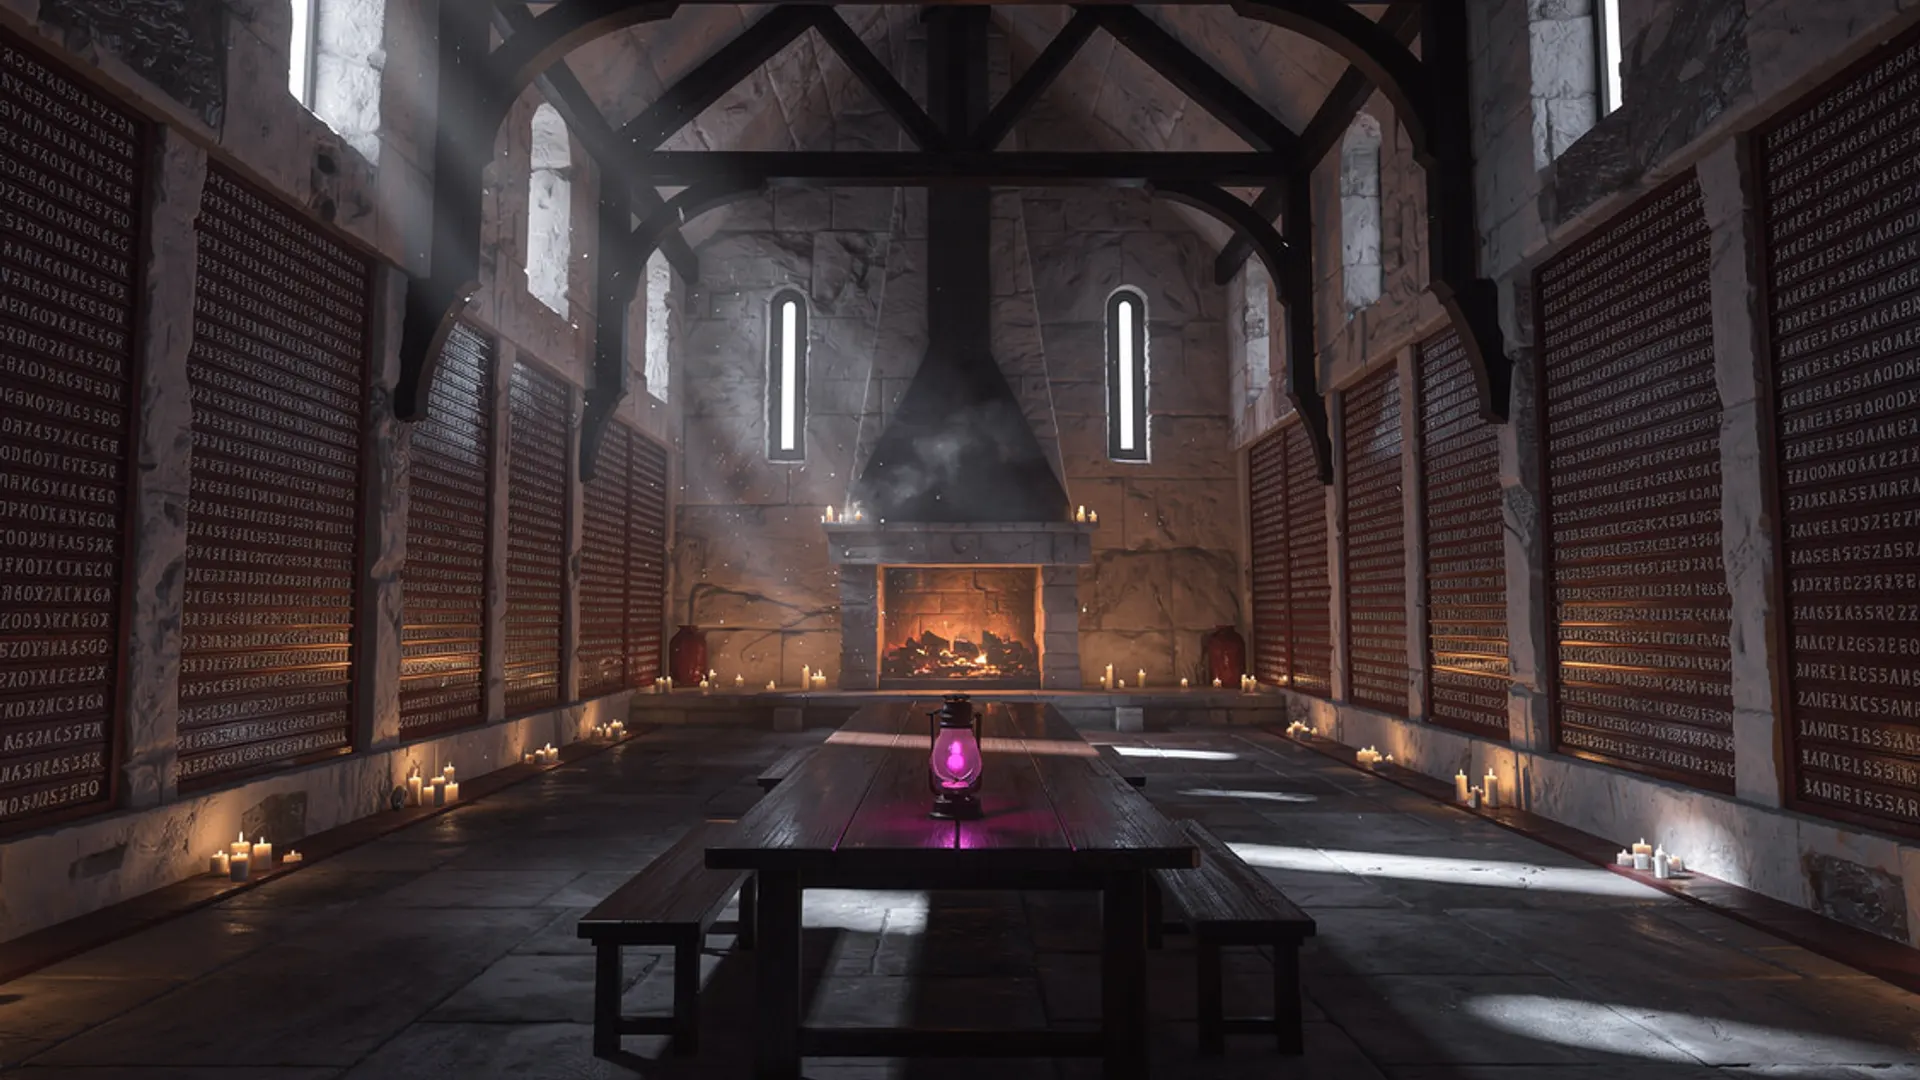
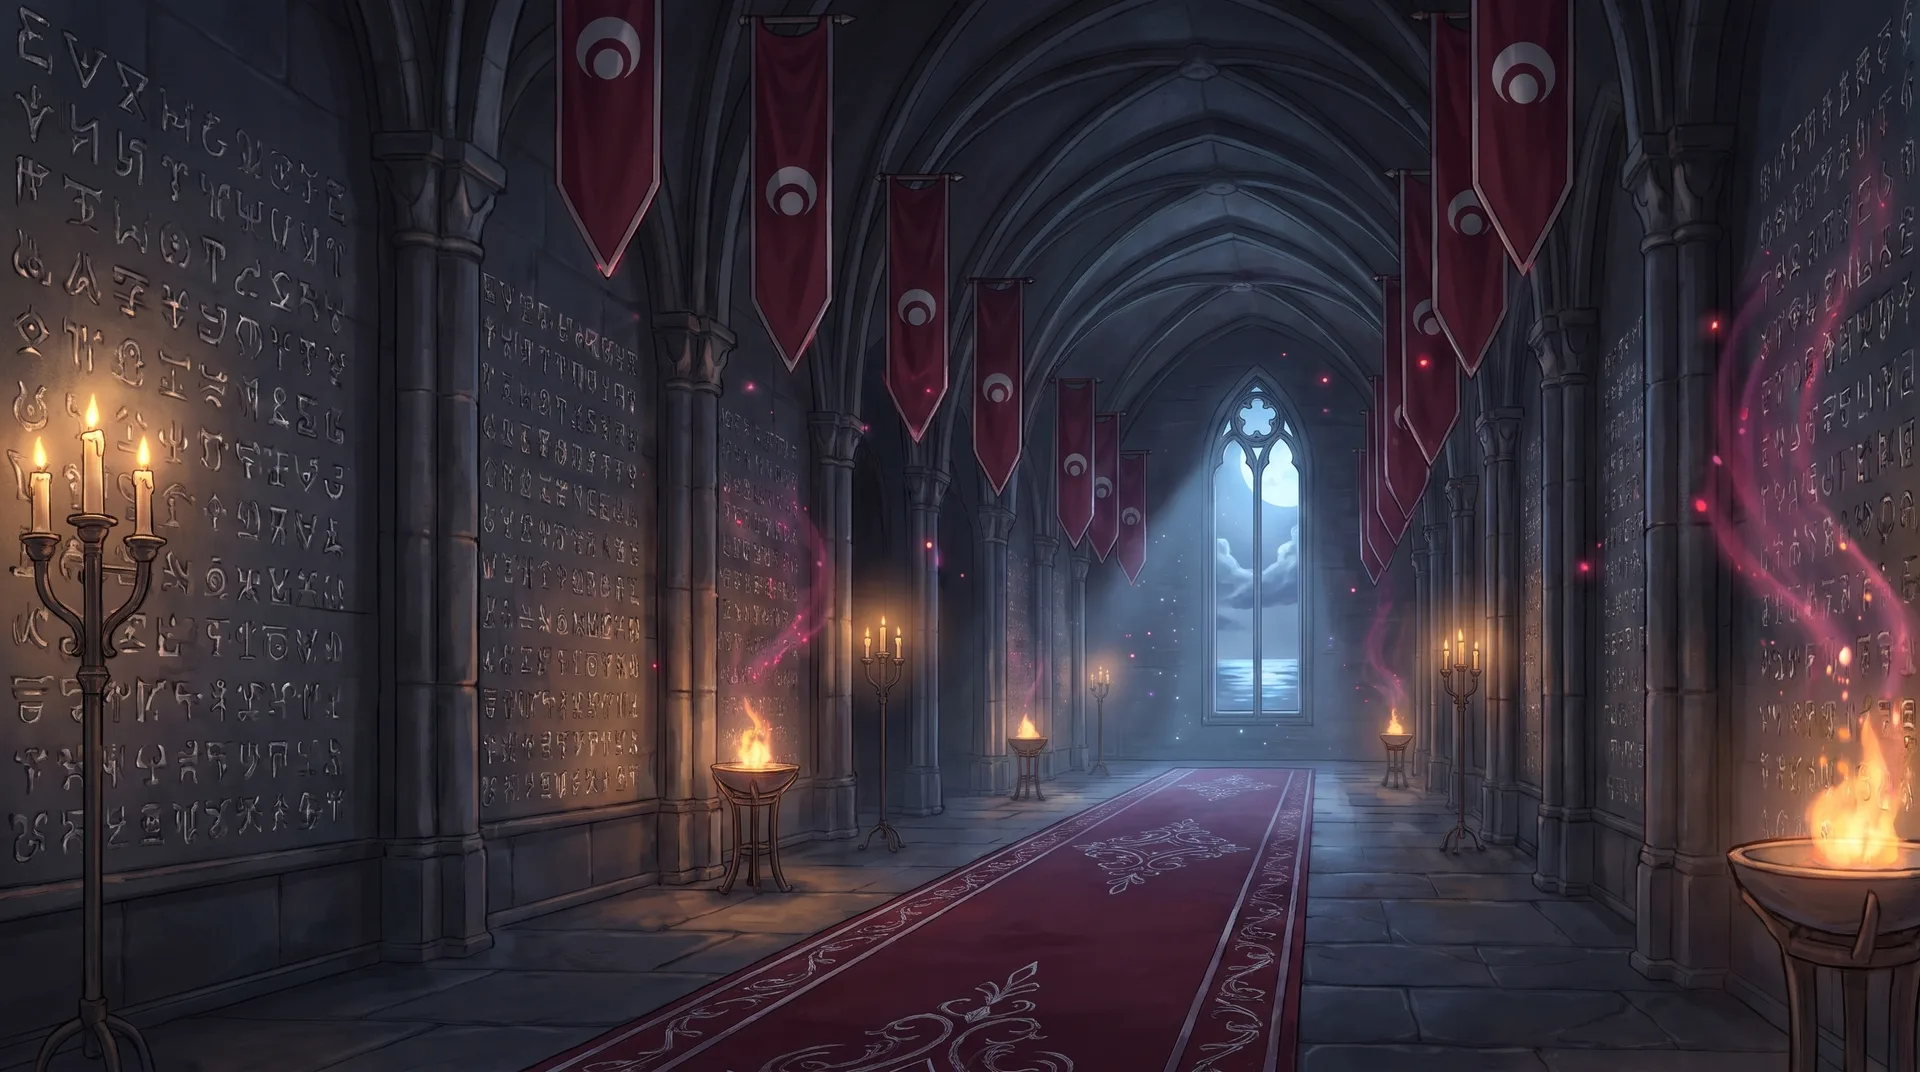
Add the e-commerce clickstream pipeline; Moonwake hall and new Still
Projects: a new Data Engineering case study, first in the list, for
the idempotent daily ELT pipeline on S3, Snowflake, dbt and Airflow 3
(110M events, every row reconciled). The cover is a screenshot of the
live dashboard, and the figures are the architecture diagram, the dbt
lineage, the 61 green Airflow runs and the reconciliation panel from
the repository.

Moonwake: a new Hall of Names painting, and a new Still roster of
twelve fighters from twelve lands of Runeterra under one shared
cloak, with the two sheet prompts rewritten to match.

diff --git a/src/data/codex.ts b/src/data/codex.ts
@@ -192,8 +192,8 @@ export const conceptGalleries: { id: string; label: string; tiles: ConceptTile[]
     label: "The Moonwatch",
     tiles: [
       { src: "/offline/moonwake/concept/watch-soldier.webp", span: 2, sheet: true, title: "The Moonwatch", text: "Melee guards with the longsword, ranged guards with the stillstone rifle. Plain dark plate, wine tabards. Patient, defensive, impossible to hurry." },
-      { src: "/offline/moonwake/concept/still-1.webp", span: 2, sheet: true, title: "The Still, I to VI", text: "Twelve who never speak, with no leader among them: they answer to the Archmagus alone. One cloak, twelve ways of fighting." },
-      { src: "/offline/moonwake/concept/still-2.webp", span: 2, sheet: true, title: "The Still, VII to XII", text: "The gate-breaker, the mage-swordsman, the privateer, the grappler, the crossbow and the censer." },
+      { src: "/offline/moonwake/concept/still-1.webp", span: 2, sheet: true, title: "The Still, I to VI", text: "Twelve from twelve corners of Runeterra, answering to the Archmagus alone. I to VI: Noxus, Piltover, Zaun, Ionia, Demacia and the Freljord." },
+      { src: "/offline/moonwake/concept/still-2.webp", span: 2, sheet: true, title: "The Still, VII to XII", text: "Shurima, Bilgewater, the Shadow Isles, Targon, Ixtal and the Void. One black cloak over everything they brought with them." },
       { src: "/offline/moonwake/concept/ranks-1.webp", span: 2, sheet: true, title: "Ranks: the soldiers", text: "Recruit to Knight Commander: spear, sword and shield, rifle, halberd, longsword, greatsword." },
       { src: "/offline/moonwake/concept/ranks-2.webp", span: 2, sheet: true, title: "Ranks: the mage path", text: "Mistweaver to Archmagus: wand, glaive, lamp, ceremonial blade and the black polearm." },
       { src: "/offline/moonwake/concept/wyvern.webp", span: 2, sheet: true, title: "War wyvern", text: "Two legs, wings for arms. Plate barding over wine-red quilting, and a saddle for one." },
@@ -208,16 +208,16 @@ export const conceptGalleries: { id: string; label: string; tiles: ConceptTile[]
  * cloak with silver trim for all; everything else is their own.
  */
 export const stillRoster: { n: string; weapon: string; style: string }[] = [
-  { n: "I", weapon: "A huge two-handed greatsword", style: "The First. Ends fights by presence alone" },
-  { n: "II", weapon: "Paired curved daggers", style: "Ambush in the fog" },
-  { n: "III", weapon: "A long rifle with a glowing stillstone core", style: "The watchtower marksman" },
-  { n: "IV", weapon: "A long spear with a pennant", style: "The duellist; holds stairs and gates" },
-  { n: "V", weapon: "A great tower shield and a short sword", style: "Holds the line alone" },
-  { n: "VI", weapon: "A harpoon on a chain", style: "Drags enemies off the bridge and the walls" },
-  { n: "VII", weapon: "A two-handed war hammer", style: "Breaks gates" },
-  { n: "VIII", weapon: "A blade wreathed in glowing well-water", style: "The mage-swordsman" },
-  { n: "IX", weapon: "Two flintlock pistols and a cutlass", style: "The former privateer; fights on ships" },
-  { n: "X", weapon: "Armoured gauntlets, nothing else", style: "Grappler and breaker" },
-  { n: "XI", weapon: "A heavy crossbow", style: "Siege; bolts that pin" },
-  { n: "XII", weapon: "A lantern-censer on a chain that pours glowing mist", style: "Blinds the whole field" },
+  { n: "I", weapon: "Noxus: a massive two-handed executioner's axe", style: "The breaker; ends fights with one swing" },
+  { n: "II", weapon: "Piltover: a long hextech rifle with a blue crystal core", style: "The sniper on the watchtower" },
+  { n: "III", weapon: "Zaun: a chemtech grenade launcher", style: "Clears crowds and bridges" },
+  { n: "IV", weapon: "Ionia: a single long curved blade of wind-steel", style: "The duellist; fastest of the twelve" },
+  { n: "V", weapon: "Demacia: a petricite tower shield and a flanged mace", style: "Holds the line; the shield drinks spells" },
+  { n: "VI", weapon: "Freljord: a heavy recurve bow of True Ice", style: "The archer; arrows that freeze" },
+  { n: "VII", weapon: "Shurima: a golden crossblade, thrown and caught", style: "Strikes at range and up close" },
+  { n: "VIII", weapon: "Bilgewater: a harpoon gun on a chain, and a cutlass", style: "Drags enemies off walls and ships" },
+  { n: "IX", weapon: "Shadow Isles: a chain-sickle with a lantern of black mist", style: "Hooks, binds and blinds" },
+  { n: "X", weapon: "Targon: a celestial spear and a round bronze shield", style: "Throws the spear, fights on with the shield" },
+  { n: "XI", weapon: "Ixtal: a blowpipe with poison darts, and an obsidian knife", style: "Silent, from the rooftops" },
+  { n: "XII", weapon: "The Void: a blade-arm of captured Void chitin", style: "The one the others don't talk about" },
 ];

diff --git a/src/data/content.ts b/src/data/content.ts
@@ -238,6 +238,62 @@ export type Project = {
 
 export const projects: Project[] = [
   {
+    slug: "ecommerce-clickstream",
+    category: "Data Engineering",
+    title: "E-commerce Clickstream Pipeline",
+    context: "Personal project · REES46 e-commerce data",
+    year: "2026",
+    cover: "/projects/ecommerce-clickstream-photo.webp",
+    short: "An idempotent daily ELT pipeline that moves 110M shop events through S3, Snowflake and dbt, orchestrated by Airflow 3.",
+    overview:
+      "An end-to-end ELT pipeline for two months of e-commerce clickstream data (110M events): daily Parquet partitions on AWS S3, loaded into Snowflake, modelled with dbt and orchestrated by Airflow 3, with a Snowpipe add-on for near-real-time loading and a static dashboard on top.",
+    problem:
+      "Where do shoppers drop off between viewing, adding to cart and buying, and which categories, brands and price ranges convert best? Answering it reliably meant loading 14.7 GB of raw events without losing or double-counting a single row, even when a run fails halfway.",
+    approach: [
+      "Split the two monthly CSVs into 61 daily Parquet folders on S3, so each Airflow run handles exactly one day, like a shop sending a new file each night; catchup replayed all 61 days in order.",
+      "Made every step idempotent: uploads overwrite the same keys, COPY INTO skips files already loaded, and dbt models use delete+insert or merge keyed on the day or session, so any task can be retried or a whole day rerun without duplicates.",
+      "Kept every RAW column as text so a bad value can never fail the load, then typed and labelled rows in dbt: clean rows flow on, bad ones go to a quarantine table, and a test fails the run if any RAW row goes missing.",
+      "Rebuilt sessions that cross midnight from all their events before merging, ran everything as a least-privilege key-pair service user, and added Snowpipe auto-ingest for live files with an 11-second median latency.",
+    ],
+    result:
+      "109,950,743 events loaded with every row accounted for (109,819,981 clean, 12 quarantined, 130,750 duplicates flagged), 8 dbt models and 15 tests passing on all 61 daily runs, for 2.67 Snowflake credits. The finding: only 10.1% of 23M sessions ever add to cart, but 61% of those go on to buy, so the leak is before the cart, not in it.",
+    tools: ["Snowflake", "dbt", "Airflow 3", "AWS S3", "Snowpipe", "Python", "Docker", "SQL", "Next.js"],
+    links: [
+      { label: "Live dashboard", href: "https://ecommerce-clickstream-snowflake.vercel.app/" },
+      { label: "View on GitHub", href: "https://github.com/MaulanaGilang/ecommerce_clickstream_snowflake" },
+    ],
+    figures: [
+      {
+        src: "/projects/ecommerce-clickstream/architecture.webp",
+        alt: "Architecture: raw CSVs split into daily Parquet on S3, loaded into Snowflake RAW, transformed by dbt into staging and marts and exported to a static website, orchestrated daily by Airflow 3, plus a Snowpipe add-on loading live files.",
+        caption: "Architecture, from the repository docs.",
+        width: 2000,
+        height: 745,
+      },
+      {
+        src: "/projects/ecommerce-clickstream/dbt-lineage.webp",
+        alt: "dbt lineage graph: raw.events to stg_events_checked, then stg_events, quarantine_events and the assert_no_rows_lost test, then the session, funnel and product marts.",
+        caption: "dbt lineage: typing and quarantine first, then the marts.",
+        width: 1846,
+        height: 820,
+      },
+      {
+        src: "/projects/ecommerce-clickstream/airflow-grid.webp",
+        alt: "Airflow calendar for 2019 with every day from 1 October to 30 November marked as a successful run.",
+        caption: "61 daily Airflow runs, all green.",
+        width: 1840,
+        height: 820,
+      },
+      {
+        src: "/projects/ecommerce-clickstream/quarantine.webp",
+        alt: "Reconciliation of RAW rows into clean, quarantined and duplicate rows, with duplicates flagged per day and quarantine counts by reason.",
+        caption: "Every row accounted for, from the live dashboard.",
+        width: 1530,
+        height: 870,
+      },
+    ],
+  },
+  {
     slug: "sql-data-warehouse",
     category: "Data Engineering",
     title: "SQL Data Warehouse",

diff --git a/src/data/offline.ts b/src/data/offline.ts
@@ -168,7 +168,7 @@ export const characters: Character[] = [
     name: "The Still",
     image: "/offline/moonwake/concept/still-1.webp",
     bio: [
-      "Twelve who never speak, numbered First to Twelfth. None of them leads; they answer to the Archmagus alone. They share one black hooded cloak with silver trim and nothing else: each fights with a different weapon, from the First's huge greatsword to twin daggers, a harpoon and a censer of mist.",
+      "Twelve who never speak, numbered First to Twelfth. None of them leads; they answer to the Archmagus alone. Each came from a different corner of Runeterra and fights with that land's weapon, from a Noxian executioner's axe and a Piltover hextech rifle to a Shadow Isles chain-sickle and a blade grown from the Void. The only thing they share is one black hooded cloak with silver trim.",
     ],
     cells: [
       { label: "Class", value: "Silent guard, ranked I to XII" },

diff --git a/src/app/offline/moonwake/page.tsx b/src/app/offline/moonwake/page.tsx
@@ -158,7 +158,7 @@ export default function MoonwakePage() {
               <div className="hx-split hx-ranks-wrap">
                 <div className="hx-split-title">
                   <h3 className="hx-h2">The Still</h3>
-                  <p className="hx-small mt-4">Twelve who never speak, ranked First to Twelfth, with no leader among them: they answer to the Archmagus alone. One cloak; every weapon and style their own.</p>
+                  <p className="hx-small mt-4">Twelve who never speak, ranked First to Twelfth, with no leader among them: they answer to the Archmagus alone. Each from a different land of Runeterra; one cloak, every weapon their own.</p>
                 </div>
                 <ol className="hx-list hx-roster">
                   {stillRoster.map((s) => (

diff --git a/docs/offline/moonwake-image-prompts.md b/docs/offline/moonwake-image-prompts.md
@@ -185,22 +185,22 @@ SUBJECT: The library of the Keep at night: tall dark wooden shelves full of book
 
 ## still-1 (The Still, I to VI)
 
-Aspect **16:9**. Attach: [guard]. Shows in: concept art and the Still character card.
+Aspect **16:9**. Attach: [guard] (for the art style only). Shows in: concept art and the Still character card. Regions: I Noxus, II Piltover, III Zaun, IV Ionia, V Demacia, VI Freljord.
 
 ```text
 STYLE: a frame from a high-budget animated fantasy series that blends 3D models with hand-painted textures. Clean, crisp painted detail, visible soft brushstrokes, clean graphic shapes. Colour palette: deep wine red (#5A0F1E), near-black, silver, warm cream, red-violet glow. No text, no letters, no logos, no watermark, no modern objects.
 
-SUBJECT: A character lineup design sheet on a plain warm-grey painted background: SIX members of the Still, silent elite guards, standing in a row, full body, front view, with clear empty space between them, nothing overlapping. All six wear the same long black hooded cloak with silver trim, hoods up, faces hidden in shadow, dark plain steel armour under the cloak like the reference image (no gems). Left to right: (I) a huge two-handed greatsword, sheathed on the back, the hilt rising above the shoulder; (II) paired curved daggers, one in each hand; (III) a long marksman rifle with a glowing red-violet crystal core, like the rifle in the reference image; (IV) a long spear with a small wine-red pennant; (V) a huge rectangular tower shield and a short sword; (VI) a harpoon with a coiled chain over the shoulder. Only III's rifle core glows; every other weapon is plain steel, wood or leather. Fully clothed characters. No labels.
+SUBJECT: A character lineup design sheet on a plain warm-grey painted background, in the same painted style and sheet layout as the reference image (use it only for the art style and background, not for armour): SIX members of the Still, an elite unit gathered from different lands, standing in a row, full body, front view, with clear empty space between them, nothing overlapping. Every figure wears the same long black hooded cloak with silver trim over their clothes, hood up, face in shadow; under the open cloak each wears the armour and clothing of their own homeland, so all twelve look different but read as one unit. Left to right: (I) from a brutal militaristic empire: heavy blackened iron plate with red accents and spiked pauldrons, a massive two-handed executioner's axe with a hooked blade; (II) from a gleaming city of inventors: tailored brass-buttoned coat and a top-hat-like hood brim, a long brass sniper rifle with a scope and a glowing BLUE crystal core; (III) from a polluted undercity: patched leather, goggles and a breathing mask, a chunky chemical grenade launcher with glowing GREEN canisters on the belt; (IV) from a serene land of spirits and martial arts: flowing layered silks and light lacquered armour, a single long curved sword in a sheath at the hip; (V) from a noble kingdom of knights: polished white-and-gold plate, a tall tower shield of pale grey-white stone and a flanged mace; (VI) from a frozen north: heavy furs and leather, braided hair visible under the hood, a heavy recurve bow carved from pale blue ice, not glowing. ONLY II's blue core and III's green canisters glow; everything else is plain iron, steel, wood, stone or ice. Fully clothed characters. No labels, no text.
 ```
 
 ## still-2 (The Still, VII to XII)
 
-Aspect **16:9**. Attach: [guard]. Shows in: concept art.
+Aspect **16:9**. Attach: [guard] (for the art style only). Shows in: concept art. Regions: VII Shurima, VIII Bilgewater, IX Shadow Isles, X Targon, XI Ixtal, XII the Void.
 
 ```text
 STYLE: a frame from a high-budget animated fantasy series that blends 3D models with hand-painted textures. Clean, crisp painted detail, visible soft brushstrokes, clean graphic shapes. Colour palette: deep wine red (#5A0F1E), near-black, silver, warm cream, red-violet glow. No text, no letters, no logos, no watermark, no modern objects.
 
-SUBJECT: A character lineup design sheet on a plain warm-grey painted background: SIX more members of the Still, silent elite guards, standing in a row, full body, front view, with clear empty space between them, nothing overlapping. All six wear the same long black hooded cloak with silver trim, hoods up, faces hidden in shadow, dark plain steel armour under the cloak like the reference image (no gems). Left to right: (VII) a huge two-handed war hammer; (VIII) a sword wreathed in glowing red-violet water that trails from the blade; (IX) two flintlock pistols in a belt and a cutlass in hand, a former privateer; (X) armoured gauntlets only, no weapon, a grappler's stance; (XI) a heavy crossbow; (XII) a lantern-censer on a chain pouring glowing red-violet mist. Only VIII's water and XII's mist glow; every other weapon is plain steel, wood or leather. Fully clothed characters. No labels.
+SUBJECT: A character lineup design sheet on a plain warm-grey painted background, in the same painted style and sheet layout as the reference image (use it only for the art style and background, not for armour): SIX more members of the Still, an elite unit gathered from different lands, standing in a row, full body, front view, with clear empty space between them, nothing overlapping. Every figure wears the same long black hooded cloak with silver trim over their clothes, hood up, face in shadow; under the open cloak each wears the armour and clothing of their own homeland, so all twelve look different but read as one unit. Left to right: (VII) from a desert empire of sun and gold: light gold-and-white desert armour and wrapped cloth, holding a large golden four-bladed throwing glaive; (VIII) from a lawless pirate port: a weathered sea coat and bandolier, a heavy harpoon gun with a coiled chain over the shoulder and a cutlass at the hip; (IX) from a cursed island of the dead: tattered grey robes and rusted chains, a long chain-sickle and a hanging lantern leaking glowing sickly GREEN black mist; (X) from a sacred mountain of the stars: bronze-and-gold armour with star motifs, a long spear and a round bronze shield; (XI) from a hidden jungle of elemental magic: jade and feathered jungle gear with gold bands, a long blowpipe with a quiver of darts and an obsidian knife; (XII) from beyond reality: dark armour partly overgrown with alien purple-black chitin, the right forearm ending in a long curved blade of the same chitin with a faint PURPLE glow. ONLY IX's mist and XII's blade glow; everything else is plain metal, wood, gold or leather. Fully clothed characters. No labels, no text.
 ```
 
 ## ranks-1 (Ranks 1 to 7: the soldiers)
